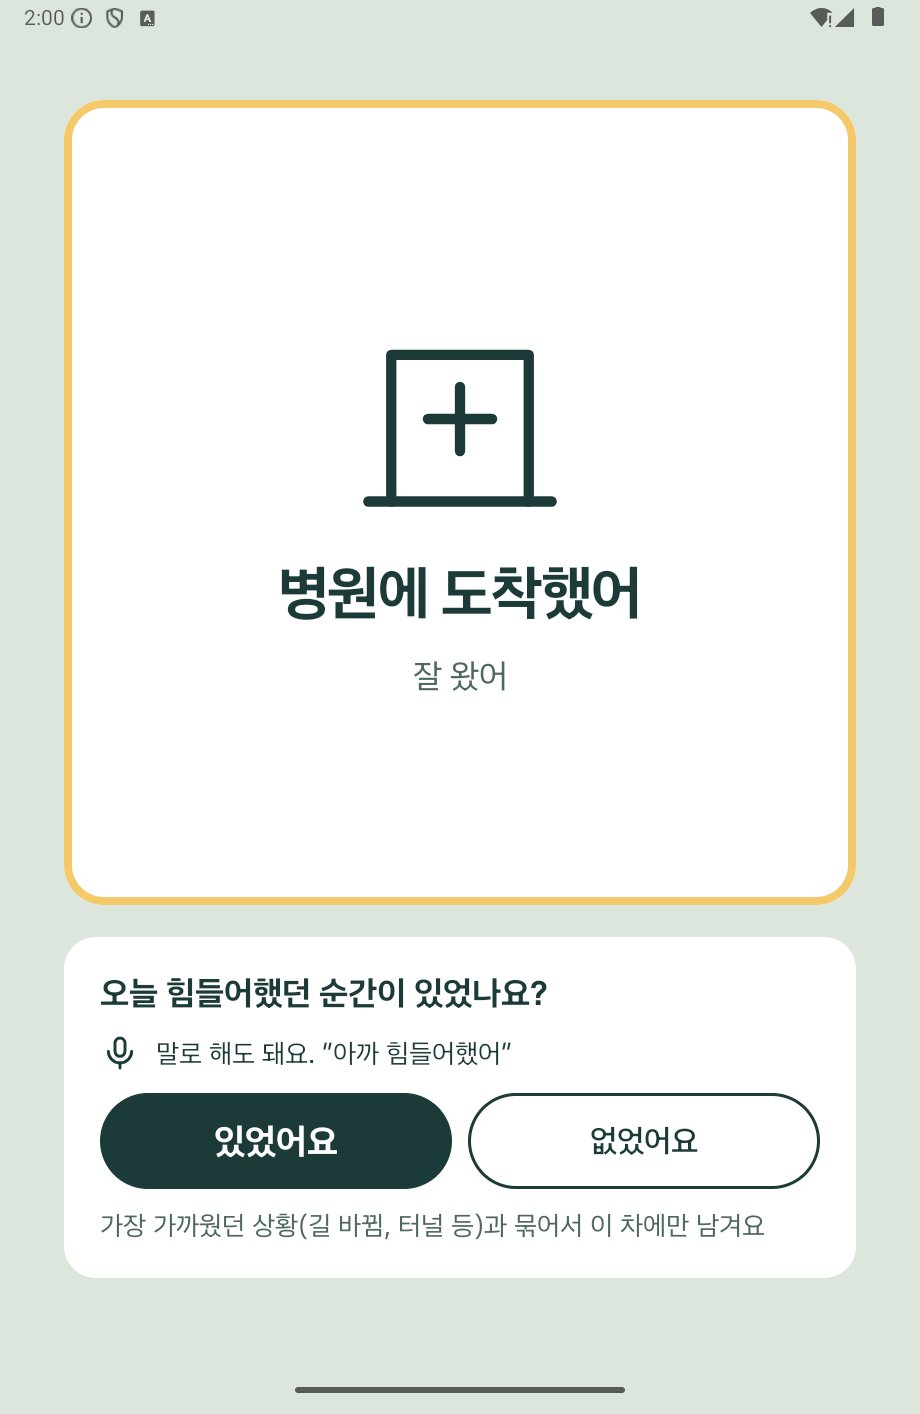
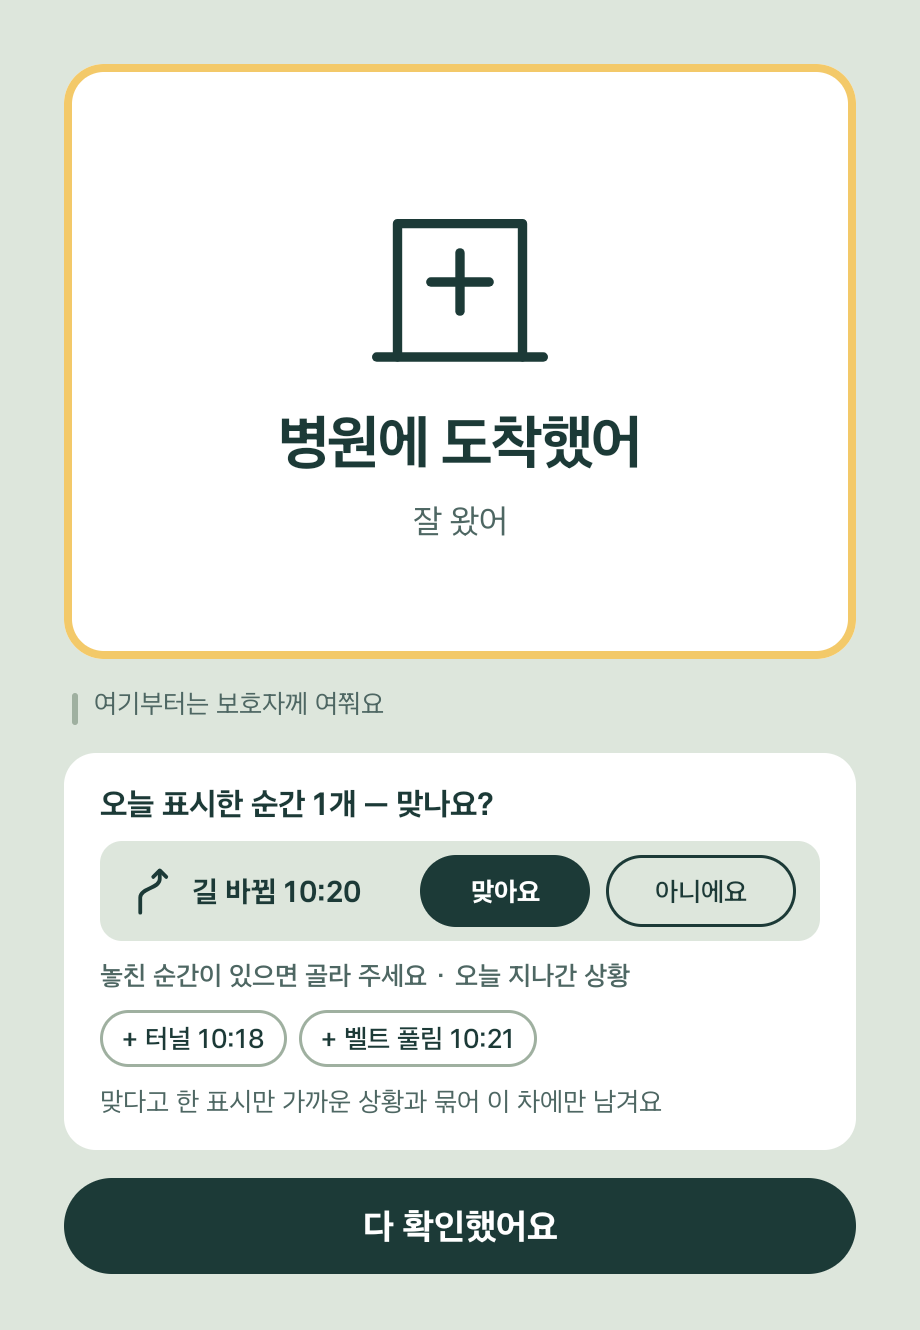
v0.2.0 화면 다시 캡처(시스템 바 없이 Pleos 창 크기), 표시 장면·차 안 목업 추가

Changed region(s): [[0.0609, 0.1541, 0.9435, 0.9865], [0.0304, 0.0, 0.9739, 0.0925], [0.8522, 0.7707, 0.8826, 0.8015]]

diff --git a/README.md b/README.md
@@ -11,7 +11,11 @@
 ![Tests](https://img.shields.io/badge/테스트-28개_통과-6E5AA8?style=flat-square)
 ![Version](https://img.shields.io/badge/version-0.2.0-F3C969?style=flat-square)
 
-[**시연 영상 (60초)**](docs/demo.mp4) · [APK 받기](apk/봇듀_다음은요_release.apk) · [개발일지](docs/개발일지.md) · [시연 방법](#실행)
+[**시연 영상**](docs/demo.mp4) · [APK 받기](apk/봇듀_다음은요_release.apk) · [개발일지](docs/개발일지.md) · [시연 방법](#실행)
+
+<img src="docs/mockups/daeum_reroute.jpg" width="100%" alt="차 안 중앙 디스플레이: 왼쪽 계기판, 가운데 내비, 오른쪽 다음은요 앱 창에 길이 바뀐 칸이 보라색 점선으로 표시된 모습">
+
+<sub>운전석과 내비는 가상 목업, 오른쪽 앱 창은 에뮬레이터 실제 화면(v0.2.0)</sub>
 
 </div>
 
@@ -49,8 +53,10 @@
 | 출발 전 | 터널 1분 전 | 길이 바뀌었을 때 |
 | --- | --- | --- |
 | <img src="docs/screens/START.png" width="260"> | <img src="docs/screens/TUNNEL_FIRST.png" width="260"> | <img src="docs/screens/REROUTE.png" width="260"> |
-| **보호자 안심 신호** | **쉼터 칸이 들어감** | **도착** |
-| <img src="docs/screens/BELT.png" width="260"> | <img src="docs/screens/REST.png" width="260"> | <img src="docs/screens/ARRIVED.png" width="260"> |
+| **운전 중 "표시해"** | **보호자 안심 신호** | **쉼터 칸이 들어감** |
+| <img src="docs/screens/MARKED.png" width="260"> | <img src="docs/screens/BELT.png" width="260"> | <img src="docs/screens/REST.png" width="260"> |
+| **도착: 표시한 순간 확인** | | |
+| <img src="docs/screens/ARRIVED.png" width="260"> | | |
 
 **이동 노트 (주차 중, 가로 2칸)** — 화면 속 숫자는 예시
 
